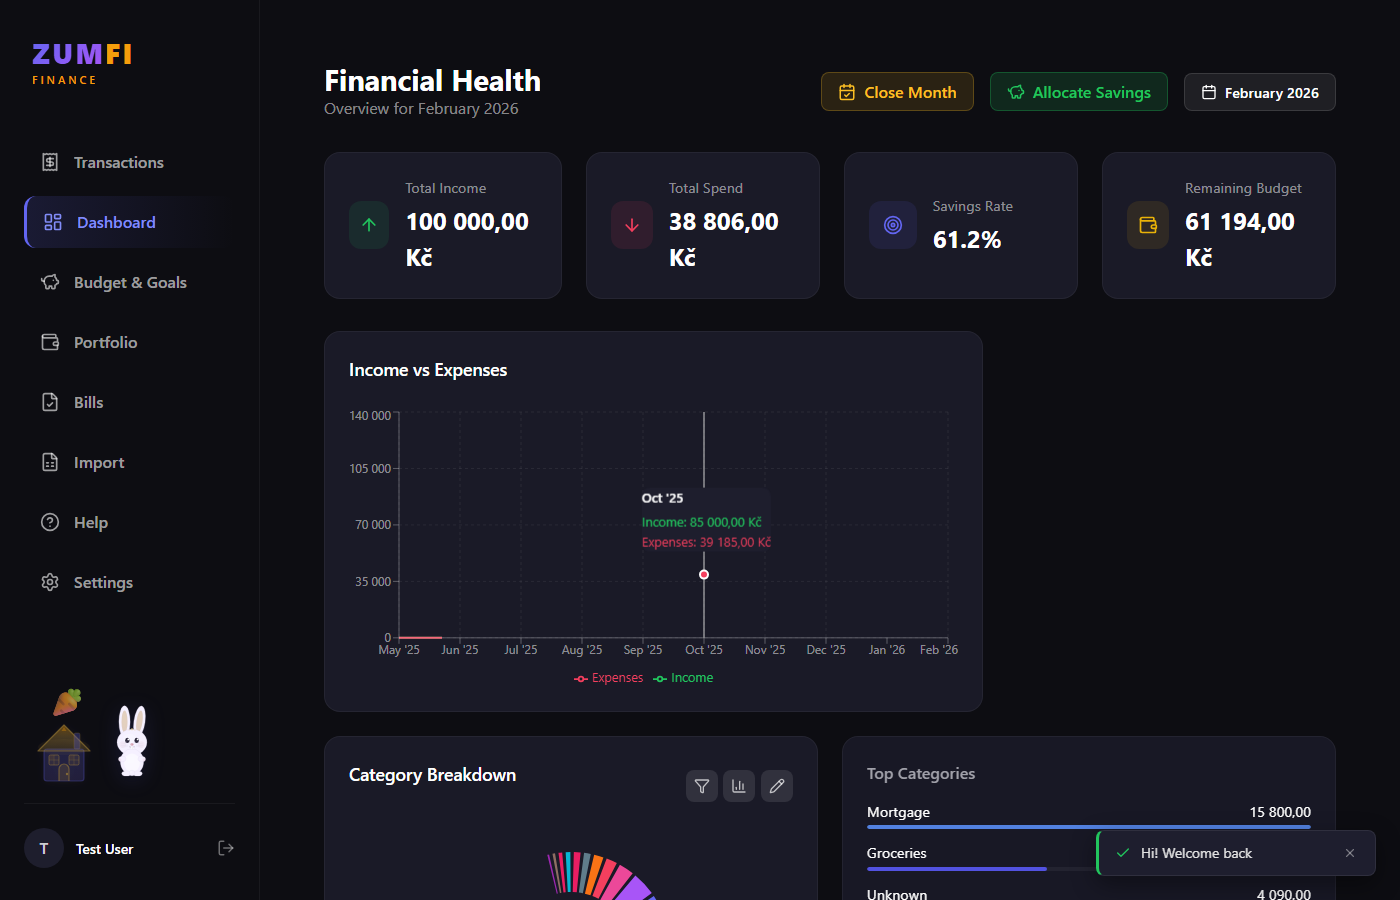
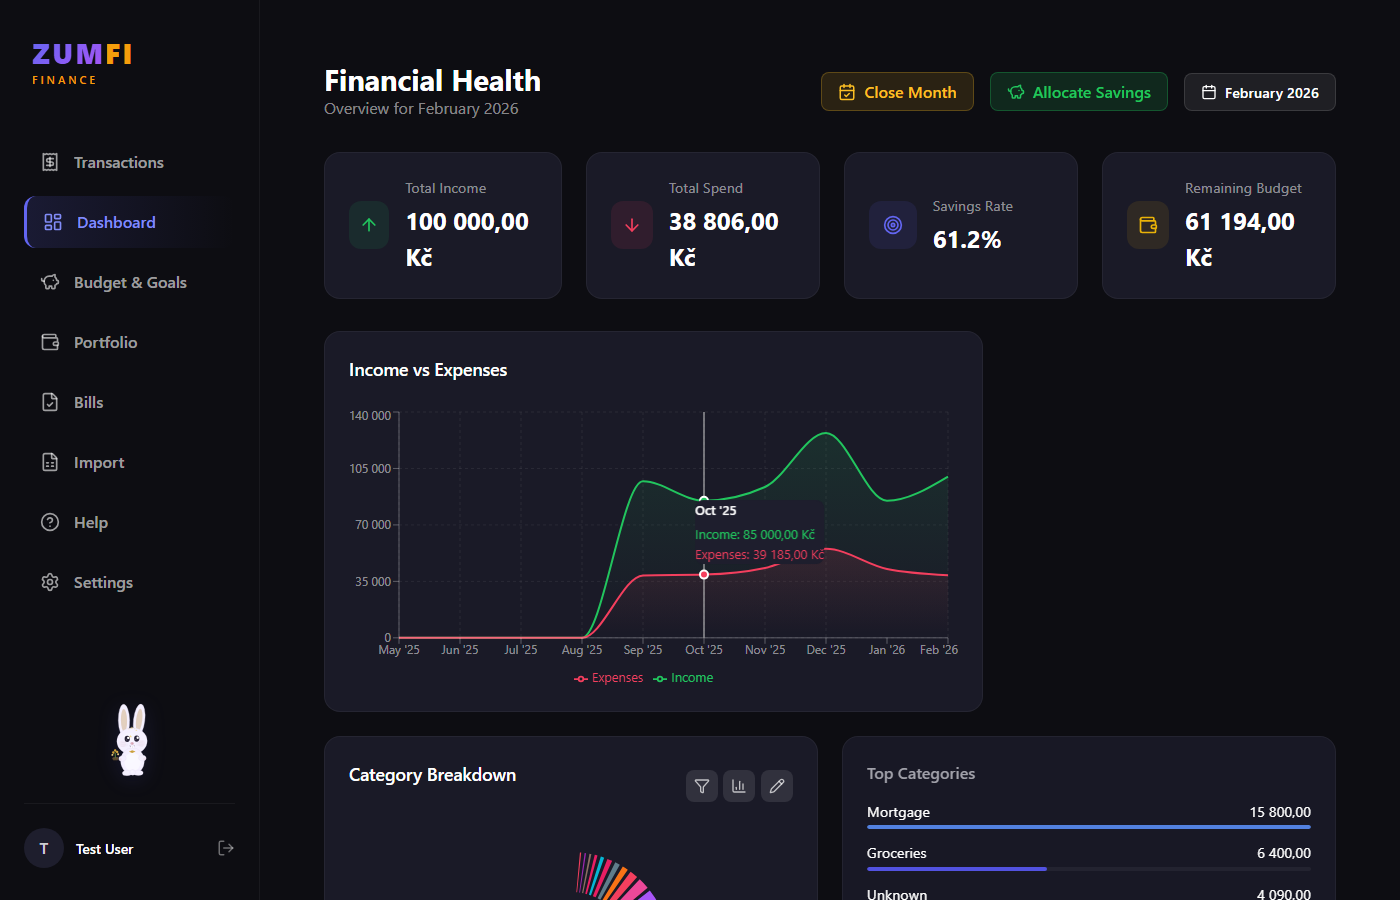
docs: update screenshots — grid layout, add stocks and mortgage pages
Retook all screenshots with cleaner captures (no rabbit overlay).
Added Stock Portfolio and Mortgage tabs. Portfolio now shows full graph.
Arranged in 2-column grid layout.

diff --git a/README.md b/README.md
@@ -37,30 +37,24 @@ Visit **[zumfi.net](https://zumfi.net)** for more information.
 
 ### Screenshots
 
-<p align="center">
-  <img src="docs/screenshots/dashboard.png" alt="Dashboard — KPIs, charts, category breakdown" width="700" /><br/>
-  <em>Dashboard — income, expenses, savings rate, and category breakdown at a glance</em>
-</p>
-
-<p align="center">
-  <img src="docs/screenshots/transactions.png" alt="Transactions — search, filter, categorize" width="700" /><br/>
-  <em>Transactions — search, filter, and categorize with smart AI-powered suggestions</em>
-</p>
-
-<p align="center">
-  <img src="docs/screenshots/budget-goals.png" alt="Budget — planned vs actual spending" width="700" /><br/>
-  <em>Budget — compare planned vs. actual spending across all categories</em>
-</p>
-
-<p align="center">
-  <img src="docs/screenshots/portfolio.png" alt="Portfolio — savings, stocks, properties" width="700" /><br/>
-  <em>Portfolio — track savings, stocks, and property values in one place</em>
-</p>
-
-<p align="center">
-  <img src="docs/screenshots/bills.png" alt="Bills — recurring expenses and mortgages" width="700" /><br/>
-  <em>Bills — manage recurring expenses and mortgage payments</em>
-</p>
+<table>
+  <tr>
+    <td align="center"><img src="docs/screenshots/dashboard.png" alt="Dashboard" width="400" /><br/><em>Dashboard</em></td>
+    <td align="center"><img src="docs/screenshots/transactions.png" alt="Transactions" width="400" /><br/><em>Transactions</em></td>
+  </tr>
+  <tr>
+    <td align="center"><img src="docs/screenshots/budget-goals.png" alt="Budget" width="400" /><br/><em>Budget vs Actual</em></td>
+    <td align="center"><img src="docs/screenshots/portfolio.png" alt="Portfolio" width="400" /><br/><em>Portfolio Overview</em></td>
+  </tr>
+  <tr>
+    <td align="center"><img src="docs/screenshots/stocks.png" alt="Stock Portfolio" width="400" /><br/><em>Stock Portfolio</em></td>
+    <td align="center"><img src="docs/screenshots/bills.png" alt="Bills" width="400" /><br/><em>Recurring Bills</em></td>
+  </tr>
+  <tr>
+    <td align="center"><img src="docs/screenshots/mortgage.png" alt="Mortgage" width="400" /><br/><em>Mortgage Tracker</em></td>
+    <td align="center"></td>
+  </tr>
+</table>
 
 ---
 
